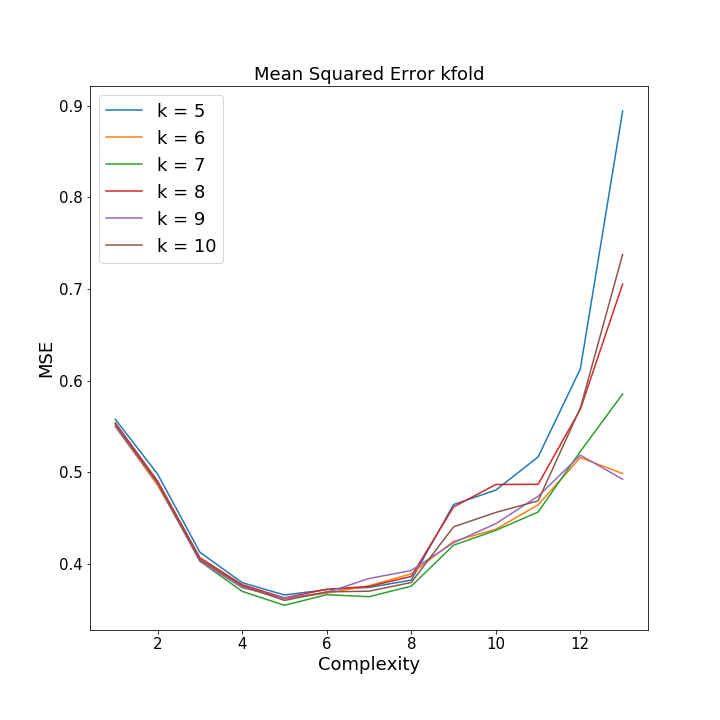
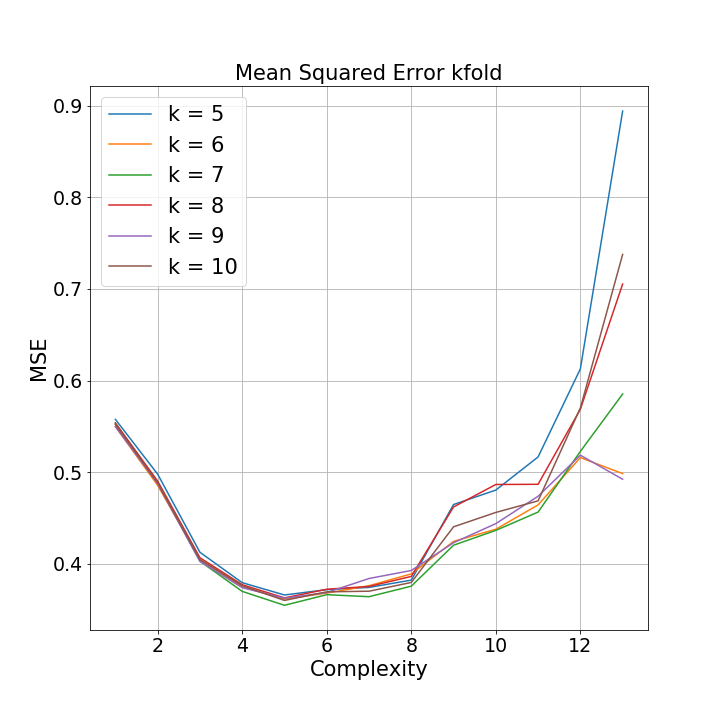
small update

diff --git a/Project1/functions.py b/Project1/functions.py
@@ -145,8 +145,8 @@ def bootstrap(X,z):
     return X_new, z_new
 
 def plot_mse(mse_train, mse_test, method_header = '', plot_complexity = True, lambdas = False, complexities = False):
-    labelsize=18
-    ticksize = 15
+    labelsize=21
+    ticksize = 19
     degree = mse_train.shape[0]
 
     if type(lambdas) != type(False):
@@ -176,8 +176,8 @@ def plot_mse(mse_train, mse_test, method_header = '', plot_complexity = True, la
     #plt.yticks(fonsize=ticksize)
     plt.ylabel("MSE", fontsize=labelsize)
     plt.title(f"Mean Squared Error {method_header}", fontsize=labelsize)
+    plt.grid()
     plt.savefig(f"MSE_datapoints_{method_header}.png")
-    plt.legend()
     plt.show()
 
 

diff --git a/Project1/ex6.py b/Project1/ex6.py
@@ -2,11 +2,11 @@ import numpy as np
 from sklearn.model_selection import train_test_split
 import random
 from imageio import imread
-import matplotlib.pyplot as plt 
+import matplotlib.pyplot as plt
 import importlib
 import functions
 importlib.reload(functions)
-from functions import mse, r2, create_X, ols, ridge, lasso, kfold, var_beta, predict, FrankeFunction, evaluate_method, bootstrap, plot_mse, ci
+from functions import *
 
 np.random.seed(2405)
 

diff --git a/Project1/ex1.py b/Project1/ex1.py
@@ -4,7 +4,7 @@ import random
 import importlib
 import functions
 importlib.reload(functions)
-from functions import mse, r2, create_X, ols, ridge, lasso, kfold, var_beta, predict, FrankeFunction, evaluate_method, bootstrap, plot_mse, ci
+from functions import *
 
 np.random.seed(2405)
 

diff --git a/Project1/ex2.py b/Project1/ex2.py
@@ -4,7 +4,7 @@ import random
 import importlib
 import functions
 importlib.reload(functions)
-from functions import mse, r2, create_X, ols, ridge, lasso, kfold, var_beta, predict, FrankeFunction, evaluate_method, bootstrap, plot_mse, ci
+from functions import *
 
 np.random.seed(2405)
 

diff --git a/Project1/ex3.py b/Project1/ex3.py
@@ -4,7 +4,7 @@ import random
 import importlib
 import functions
 importlib.reload(functions)
-from functions import mse, r2, create_X, ols, ridge, lasso, kfold, var_beta, predict, FrankeFunction, evaluate_method, bootstrap, plot_mse, ci
+from functions import *
 
 np.random.seed(2405)
 

diff --git a/Project1/ex4.py b/Project1/ex4.py
@@ -4,7 +4,7 @@ import random
 import importlib
 import functions
 importlib.reload(functions)
-from functions import mse, r2, create_X, ols, ridge, lasso, kfold, var_beta, predict, FrankeFunction, evaluate_method, bootstrap, plot_mse, ci
+from functions import *
 
 np.random.seed(2405)
 

diff --git a/Project1/ex5.py b/Project1/ex5.py
@@ -4,7 +4,7 @@ import random
 import importlib
 import functions
 importlib.reload(functions)
-from functions import mse, r2, create_X, ols, ridge, lasso, kfold, var_beta, predict, FrankeFunction, evaluate_method, bootstrap, plot_mse, ci
+from functions import *
 
 np.random.seed(2405)
 
